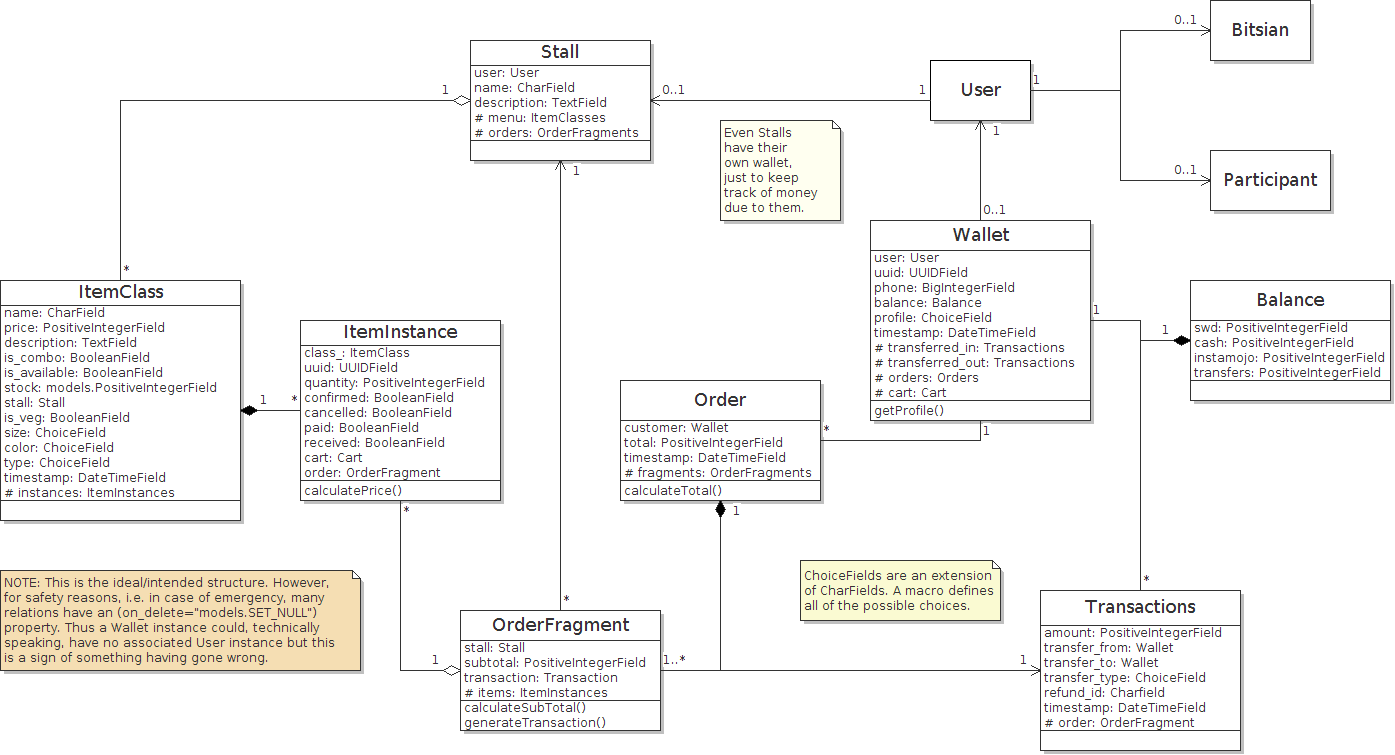
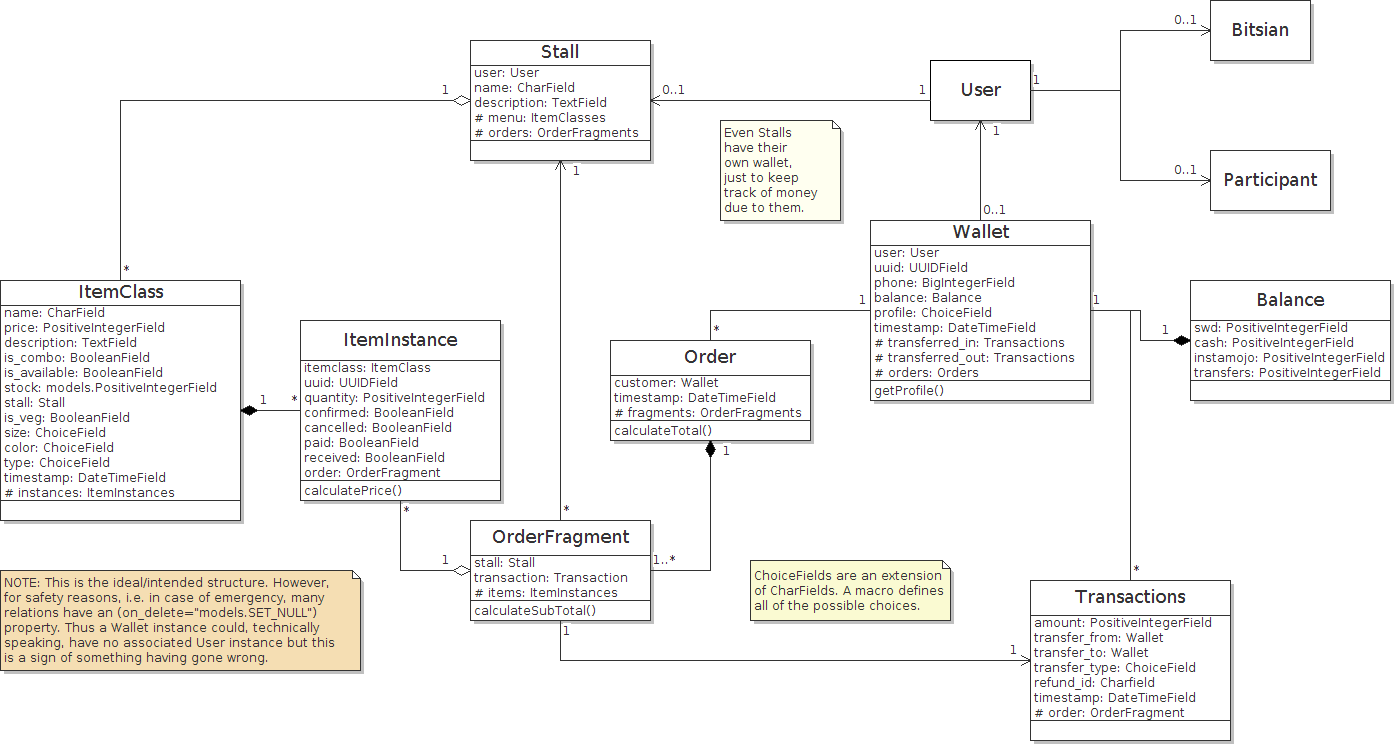
Update to model: OrderFragment and work begun on views

diff --git a/shop/models/order.py b/shop/models/order.py
@@ -26,11 +26,16 @@ class Order(models.Model):
 		self.total = total
 		return total
 
+	def getStatus(self):
+		pass
+
 
 class OrderFragment(models.Model):
 	""" Each constituent part of a larger order, part of the the "many stalls,
 	many items" ordering feature. """
 	stall = models.ForeignKey("Stall", related_name="orders", null=True,
+								on_delete=models.SET_NULL)
+	order = models.ForeignKey("Order", related_name="fragments", null=True,
 								on_delete=models.SET_NULL)
 	transaction = models.OneToOneField("Transaction", null=True,
 										on_delete=models.SET_NULL)
@@ -45,3 +50,6 @@ class OrderFragment(models.Model):
 			subtotal += item.calculatePrice()
 		self.subtotal = subtotal
 		return subtotal
+
+	def getStatus(self):
+		pass

diff --git a/shop/views/orders_views.py b/shop/views/orders_views.py
@@ -1,0 +1,17 @@
+from django.shortcuts import render
+
+from rest_framework import status
+from rest_framework.views import APIView
+from rest_framework.response import Response
+
+from shop.models.order import Order, OrderFragment
+
+class PlaceOrder(APIView):
+    """ The main view to handle orders. For the structure expected from the
+        app/front-end teams, see the below """
+
+    def post(self, request, format=None):
+        data = request.data
+        order = Order(customer=request.user.wallet)
+        for stall in data["order"]:
+            #fragment = OrderFragment(stall=Stall.objects.get())

diff --git a/shop/migrations/0002_orderfragment_order.py b/shop/migrations/0002_orderfragment_order.py
@@ -1,0 +1,21 @@
+# -*- coding: utf-8 -*-
+# Generated by Django 1.11 on 2018-09-03 09:40
+from __future__ import unicode_literals
+
+from django.db import migrations, models
+import django.db.models.deletion
+
+
+class Migration(migrations.Migration):
+
+    dependencies = [
+        ('shop', '0001_initial'),
+    ]
+
+    operations = [
+        migrations.AddField(
+            model_name='orderfragment',
+            name='order',
+            field=models.ForeignKey(null=True, on_delete=django.db.models.deletion.SET_NULL, related_name='fragments', to='shop.Order'),
+        ),
+    ]

diff --git a/shop/views/auth_views.py b/shop/views/auth_views.py
@@ -1,3 +1,1 @@
 from django.shortcuts import render
-
-# Create your views here.

diff --git a/shop/views/ewallet_views.py b/shop/views/ewallet_views.py
@@ -1,0 +1,1 @@
+from django.shortcuts import render

diff --git a/shop/views/stalls_views.py b/shop/views/stalls_views.py
@@ -1,0 +1,1 @@
+from django.shortcuts import render
